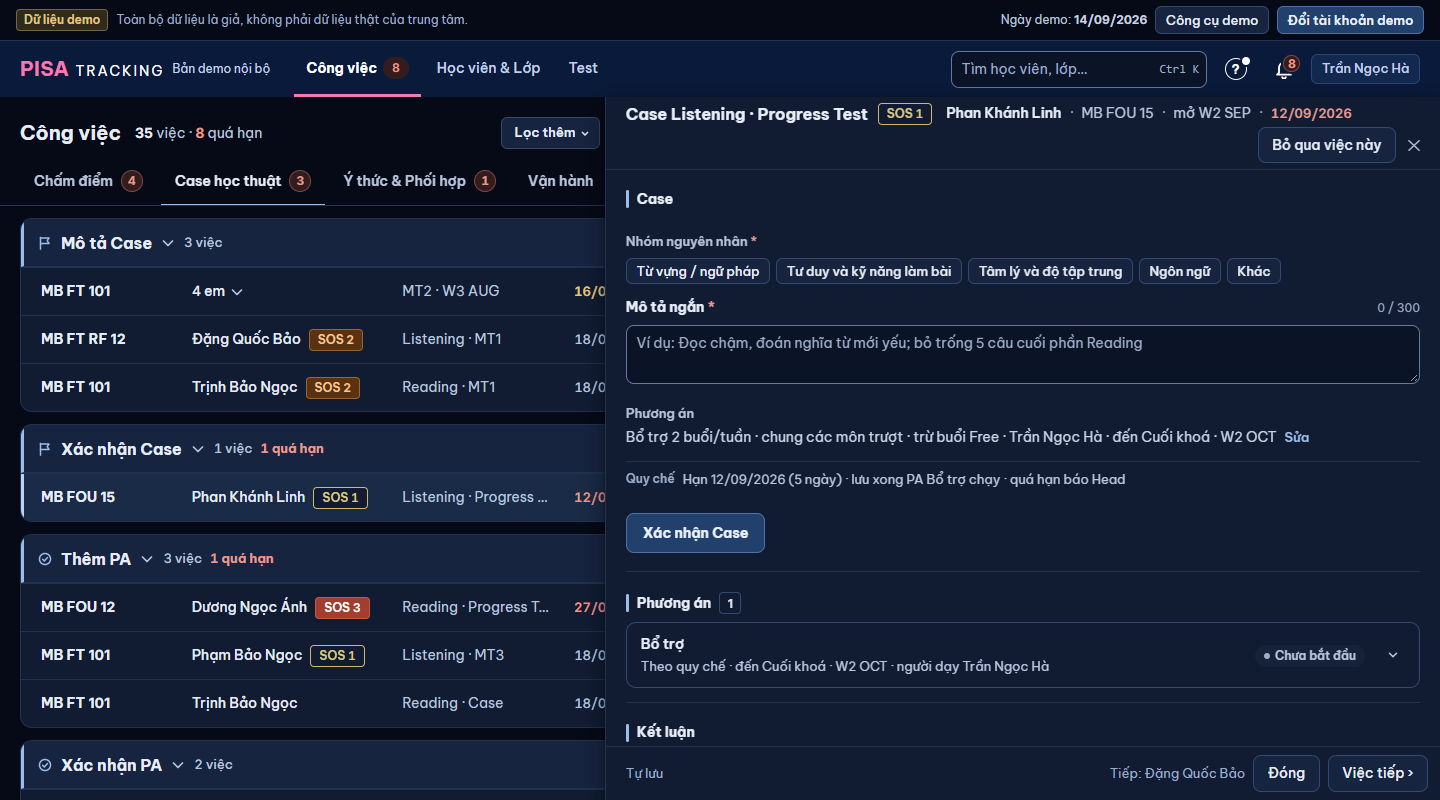
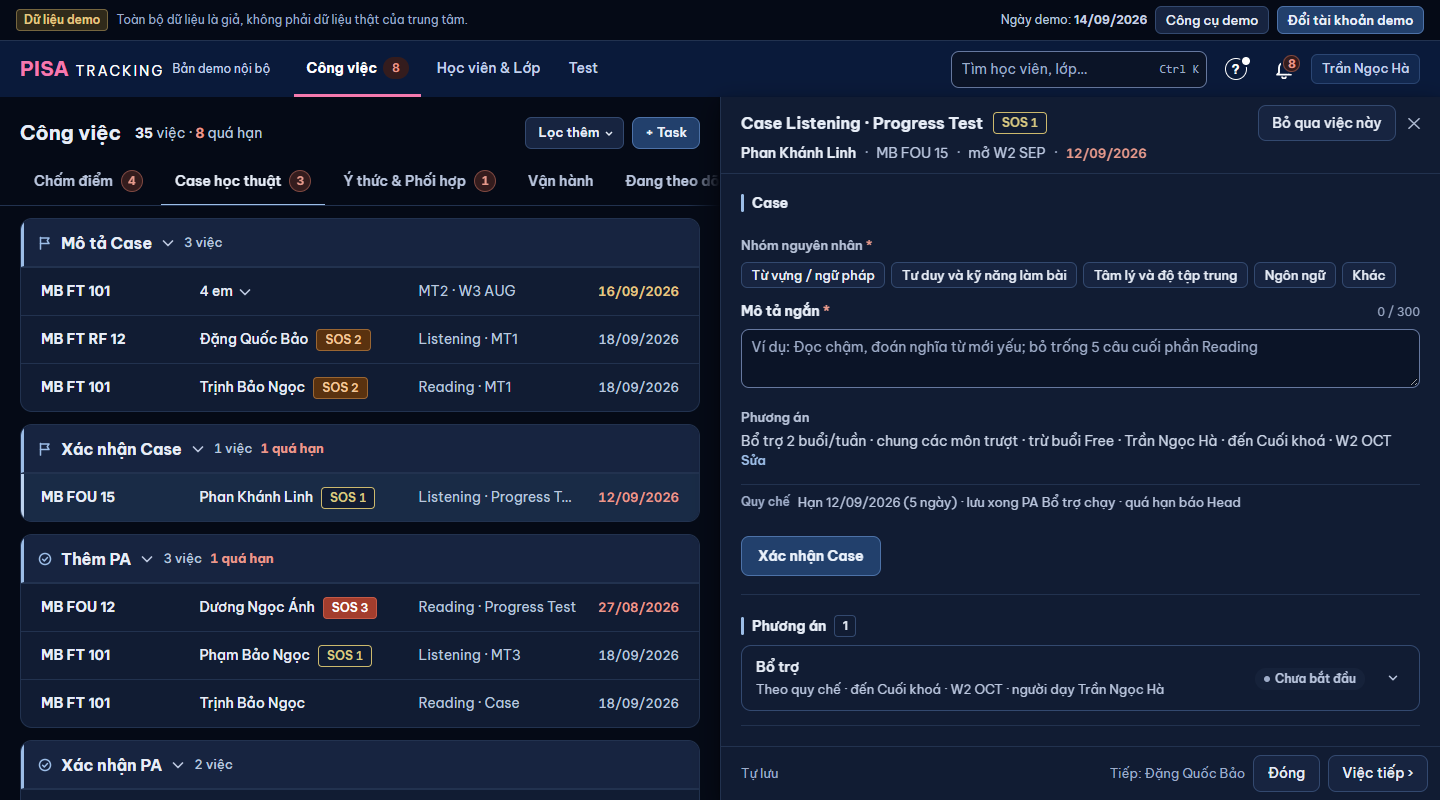
khuôn A: gộp #2072, chụp lại ảnh panel mở

diff --git a/docs/anh/khuon-a/khop-khac.md b/docs/anh/khuon-a/khop-khac.md
@@ -106,3 +106,6 @@ Cách làm: trang rộng ≥ 1100 px (vai không có "Lớp của tôi") ô lớ
 ## 9. Thử "Bỏ qua việc này" ở đầu panel (ảnh `gv-1440-panel-bo-qua.png`)
 
 Demo không có việc `boQuaDuoc` thật (chỉ sinh khi Quản lý có PA chạy chưa có mốc MT / ngày thi) và dựng được bằng dữ liệu cần sửa seed, nên thử bằng Playwright chặn `GET /api/my-work` (gắn `boQuaDuoc: true` cho việc "Xác nhận Case · Phan Khánh Linh") và `POST /api/my-work/bo-qua` (trả ok) — KHÔNG đổi DB / seed. Kết quả: mở dòng → đầu panel có nút "Bỏ qua việc này" → bấm: gửi `{key:"cause:56", boQua:true}`, panel đóng, dòng biến khỏi danh sách, toast "Đã bỏ qua: Xác nhận Case · Listening · Phan Khánh Linh" có nút Hoàn tác. Phần máy chủ (`/my-work/bo-qua`, Hoàn tác = `boQua:false`) không đổi so với trước, đã có phép kiểm riêng. Chưa thử với việc `moc:` thật.
+
+## 10. Sau gộp #2072 (24/11)
+Gộp main, giữ khung panel 720 + danh sách `min(680, 100vw − 760)`. Ảnh `gv-1440-panel`, `gv-1280-panel`, `gv-1440-panel-bo-qua` chụp lại CHỈ phía web (mockup phần này không đổi). Nút "Bỏ qua việc này" + ✕ ở dòng tên, phần phụ xuống dòng; cột hạn không bị che / cắt. Check 6128 đạt.
